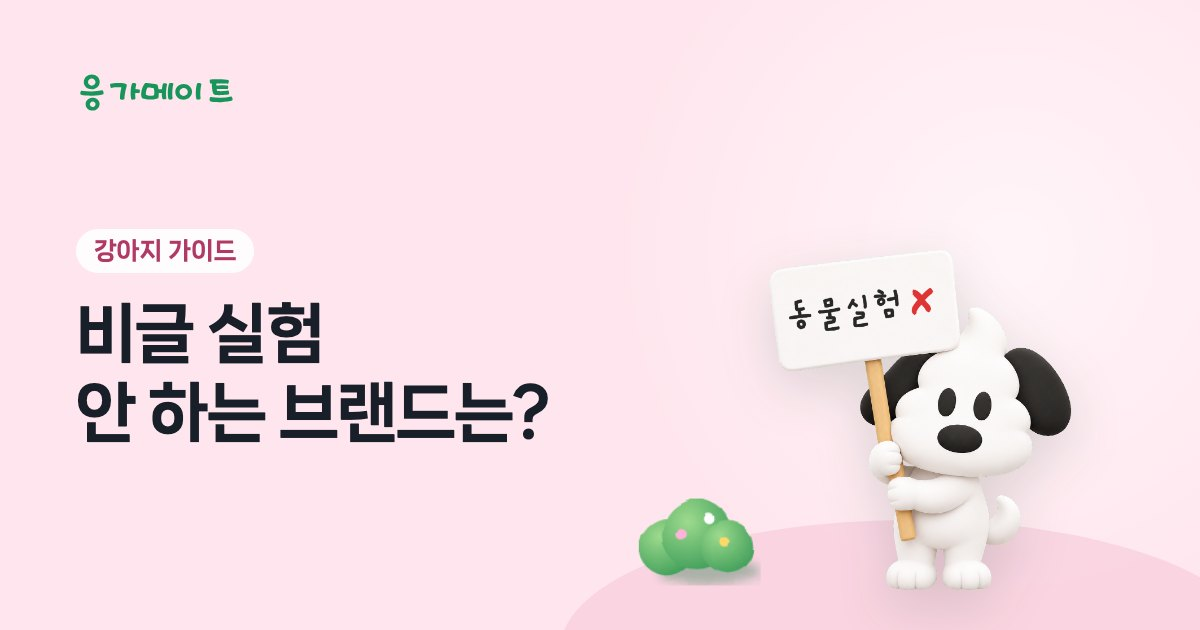
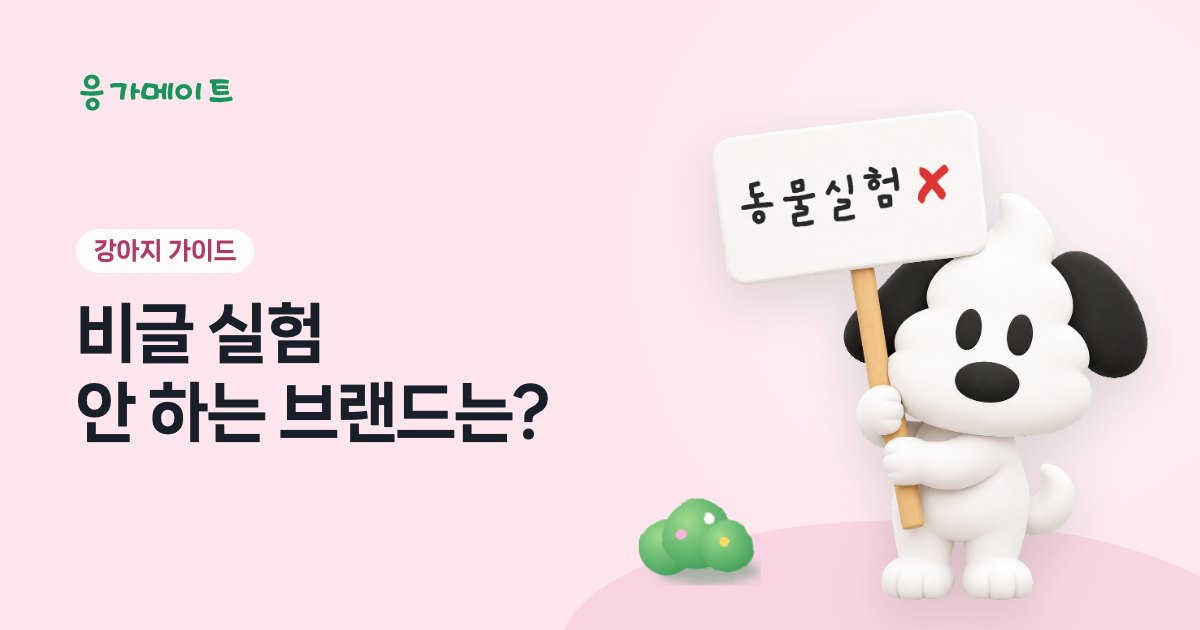
Cruelty-free guide thumbnail: bigger 응댕이 to match other guides

Changed region(s): [[0.6167, 0.3921, 0.9558, 0.9651], [0.6167, 0.2413, 0.8017, 0.3619], [0.74, 0.9349, 0.7708, 0.9651]]

diff --git a/src/og_scenes.py b/src/og_scenes.py
@@ -72,7 +72,7 @@ SCENES = {
                                              lay('소품/단풍잎.png', 700, 60, b=360, r=-25, z=7), lay('소품/나뭇잎.png', 780, 48, b=450, r=30, z=7), lay('소품/단풍잎.png', 1160, 54, b=420, r=15, z=7),
                                              lay('소품/나뭇잎.png', 1060, 40, b=40, r=-50, z=7), lay('소품/단풍잎.png', 760, 44, b=36, r=70, z=7)]),
     'jindo-outdoor-potty-why': ('mint', [lay('건물/우리집.png', 1110, 290, b=56, z=1), dog('stubborn', 880, 340, b=36)]),
-    'cruelty-free-korean-brands': ('pink', [lay('나무/덤불_01.png', 700, 96, b=40, z=3), dog('picket', 920, 340, b=40)]),
+    'cruelty-free-korean-brands': ('pink', [lay('나무/덤불_01.png', 700, 96, b=40, z=3), dog('picket', 930, 490, b=30)]),
     'large-dog-outdoor-potty-why': ('lemon', [lay('나무/나무_01.png', 1120, 290, b=110, z=1), lay('나무/덤불_01.png', 700, 96, b=40, z=3), dog('bigwalk', 900, 330, b=40)]),
     # ── 산책·가족 가이드
     'multi-dog-household-tracking': ('pink', [dog('배보여주기', 1040, 250, b=40), dog('baby-walk', 790, 200, b=40)]),
